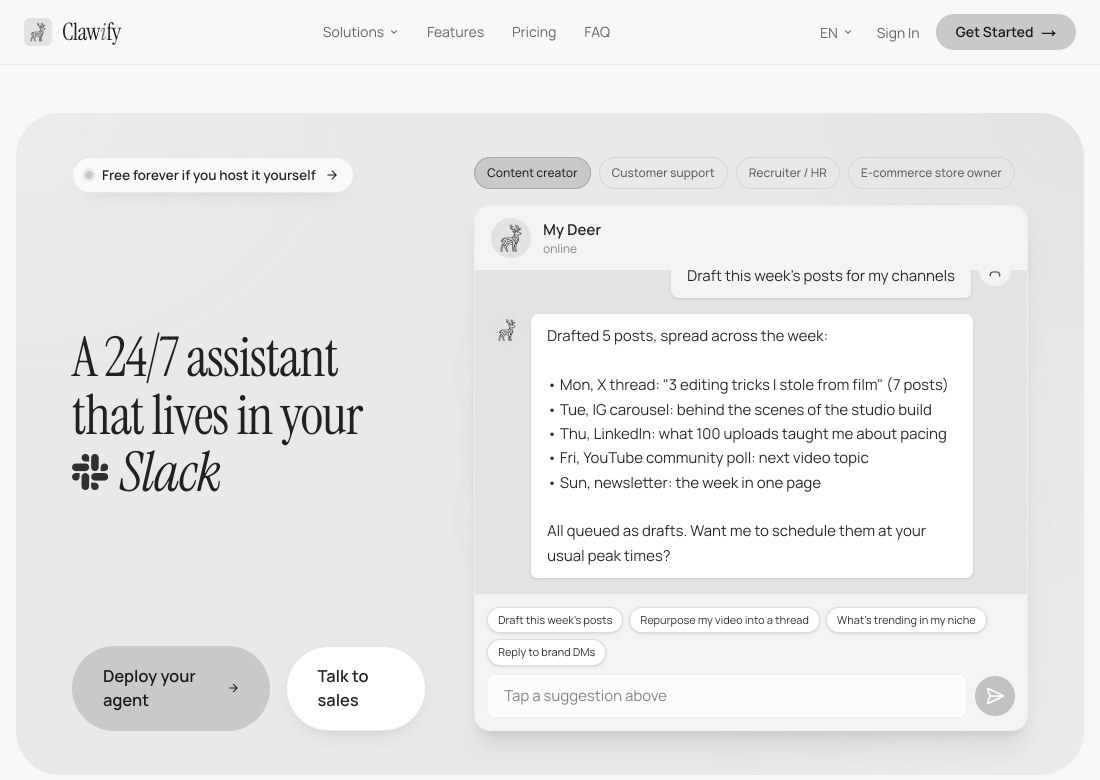
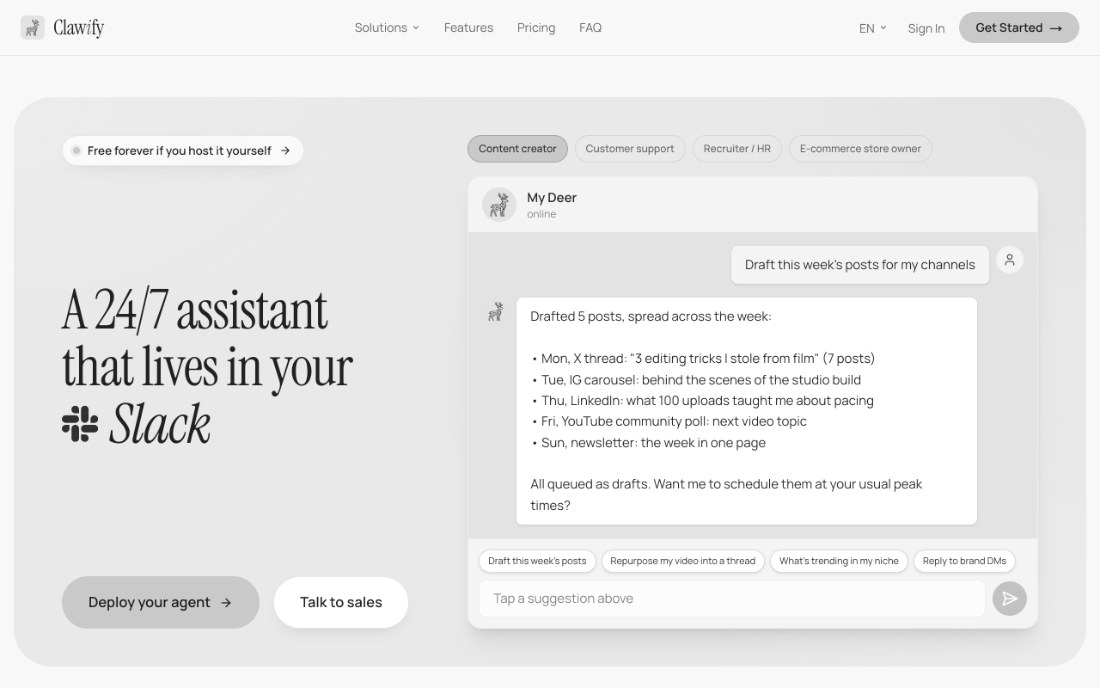
fix(home): recapture the Clawify photo at desktop width

diff --git a/src/data/front-page.ts b/src/data/front-page.ts
@@ -90,7 +90,7 @@ export const RECENT_WORK: Role[] = [
     figure: {
       src: "/front-page/clawify.jpg",
       width: 1100,
-      height: 780,
+      height: 688,
       alt: "The Clawify homepage: A 24/7 assistant that lives in your Slack, beside a demo chat where the assistant drafts a week of social posts",
       caption:
         "Clawify's homepage. A 24/7 AI assistant in the chat app you already use, free forever if you host it yourself.",
